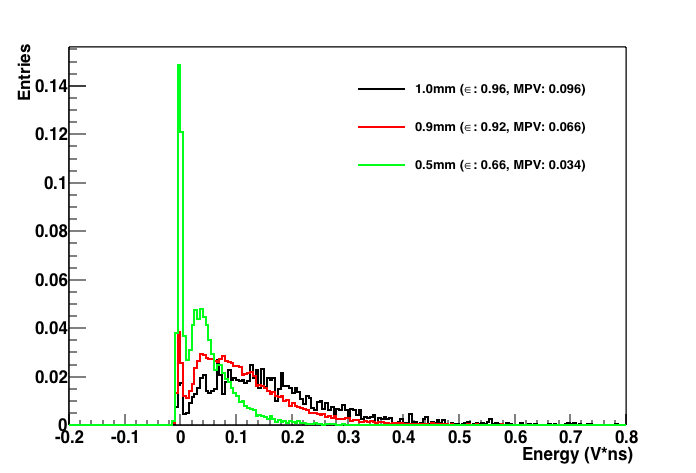
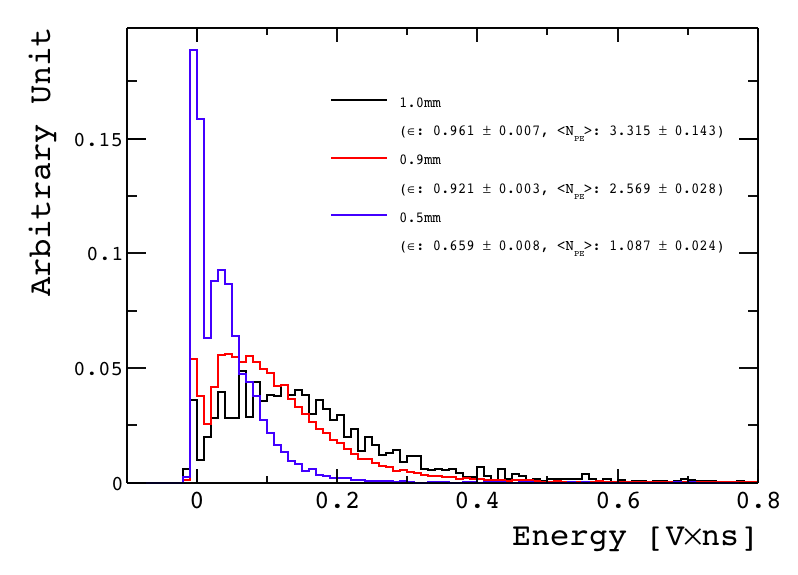
Update Fig. 5

diff --git a/aliquidtile.tex b/aliquidtile.tex
@@ -352,8 +352,7 @@ in Figure~\ref{fig:fiber_thickness_comp}.
 \includegraphics[width=0.8\textwidth]{./figures/list_Fiber_Thickness_all_1.png}
 \caption{Comparison between the light output of liquid scintillator
   tiles readout with plastic WLS fibers with different thickness. The
-  three distributions are normalized to have the same number of
-  events.{\color{red} Geng Yuan will remake to publication quality}}
+  three distributions are normalized to have the same area of 1.}
 \label{fig:fiber_thickness_comp}
 \end{center}
 \end{figure}
